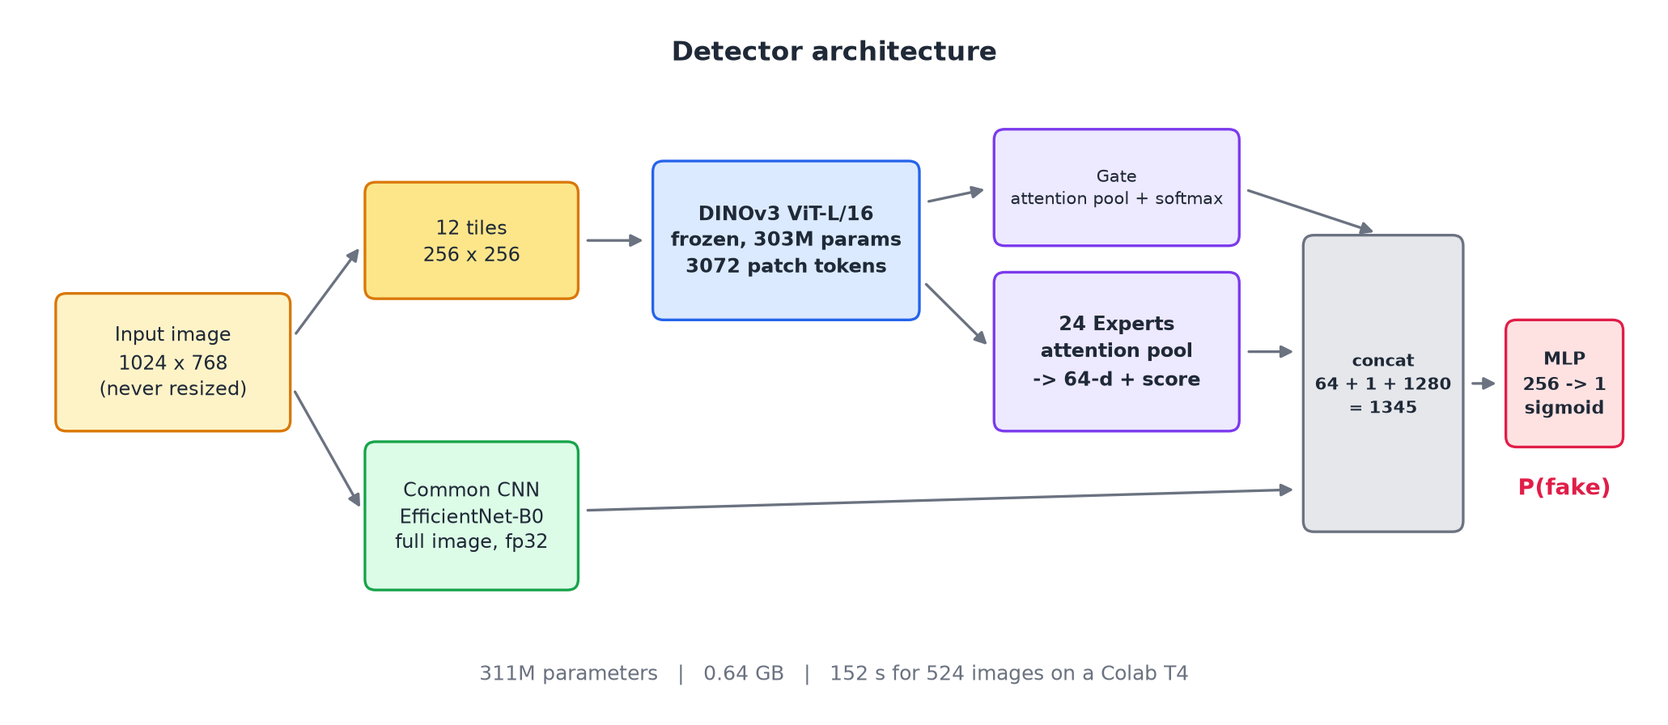
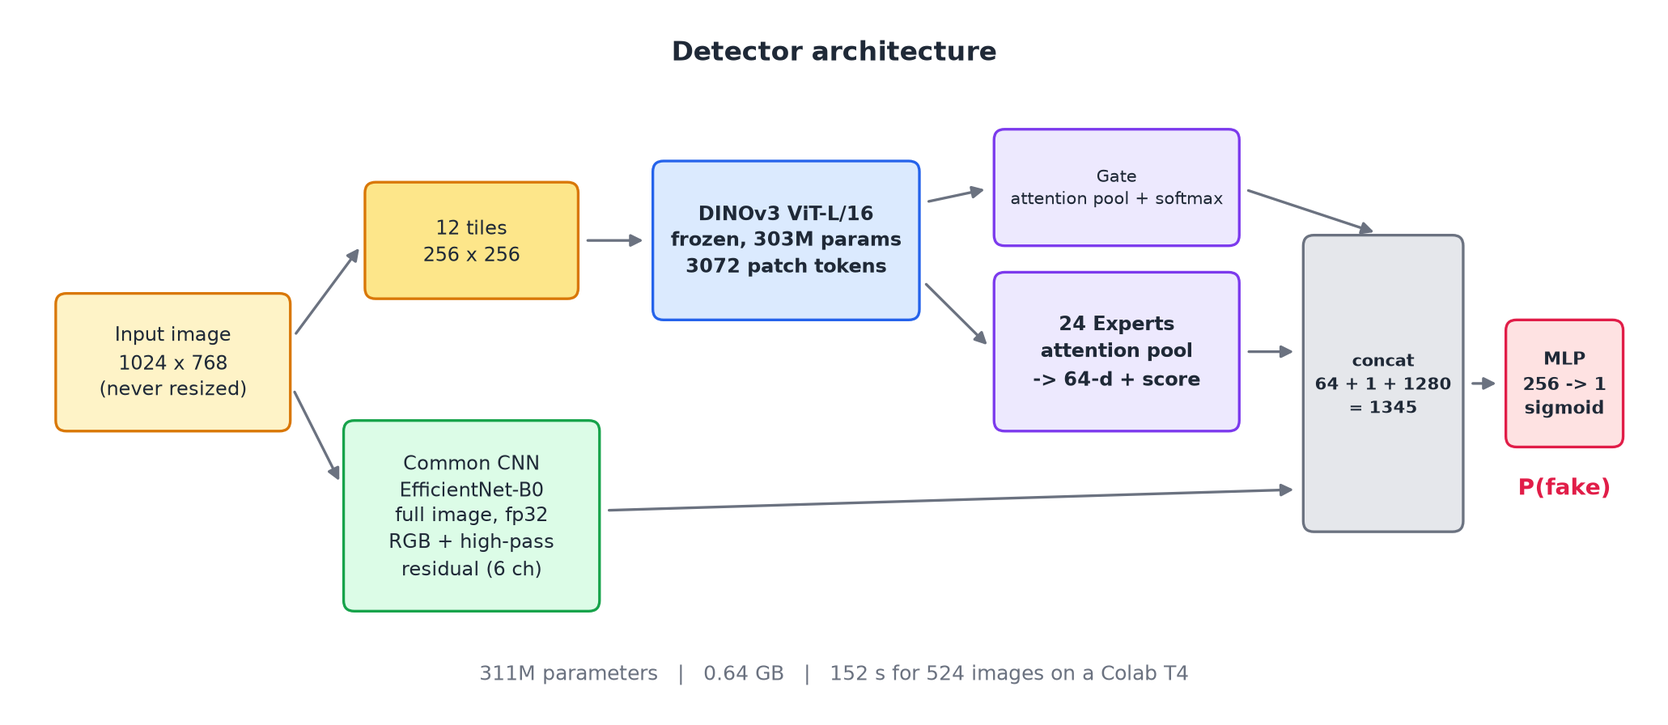
Update to final submission v7 (exp16 + threshold shift, leaderboard 0.87)

Changed region(s): [[0.1863, 0.5625, 0.3726, 0.8438]]

diff --git a/assets/make_figures.py b/assets/make_figures.py
@@ -54,15 +54,15 @@ def architecture():
     ax.text(7.5, 5.95, 'Detector architecture', ha='center', fontsize=14, fontweight='bold')
     box(fig, ax, 0.2, 2.45, 2.2, 1.3, 'Input image\n1024 x 768\n(never resized)', '#fef3c7', AMBER)
     box(fig, ax, 3.1, 3.7, 2.0, 1.1, '12 tiles\n256 x 256', '#fde68a', AMBER)
-    box(fig, ax, 3.1, 0.95, 2.0, 1.4, 'Common CNN\nEfficientNet-B0\nfull image, fp32', '#dcfce7', GREEN)
+    box(fig, ax, 2.9, 0.75, 2.4, 1.8, 'Common CNN\nEfficientNet-B0\nfull image, fp32\nRGB + high-pass\nresidual (6 ch)', '#dcfce7', GREEN)
     box(fig, ax, 5.8, 3.5, 2.5, 1.5, 'DINOv3 ViT-L/16\nfrozen, 303M params\n3072 patch tokens', '#dbeafe', BLUE, bold=True)
     box(fig, ax, 9.0, 4.2, 2.3, 1.1, 'Gate\nattention pool + softmax', '#ede9fe', PURPLE)
     box(fig, ax, 9.0, 2.45, 2.3, 1.5, '24 Experts\nattention pool\n-> 64-d + score', '#ede9fe', PURPLE, bold=True)
     box(fig, ax, 11.9, 1.5, 1.5, 2.8, 'concat\n64 + 1 + 1280\n= 1345', GRAY, MUTED, bold=True)
     box(fig, ax, 13.8, 2.3, 1.1, 1.2, 'MLP\n256 -> 1\nsigmoid', '#fee2e2', RED, bold=True)
-    for p_, q_ in [((2.4, 3.3), (3.1, 4.25)), ((2.4, 2.9), (3.1, 1.65)), ((5.1, 4.25), (5.8, 4.25)),
+    for p_, q_ in [((2.4, 3.3), (3.1, 4.25)), ((2.4, 2.9), (2.9, 1.9)), ((5.1, 4.25), (5.8, 4.25)),
                    ((8.3, 4.6), (9.0, 4.75)), ((8.3, 3.9), (9.0, 3.2)), ((11.3, 4.75), (12.65, 4.3)),
-                   ((11.3, 3.2), (11.9, 3.2)), ((5.1, 1.7), (11.9, 1.9)), ((13.4, 2.9), (13.8, 2.9))]:
+                   ((11.3, 3.2), (11.9, 3.2)), ((5.3, 1.7), (11.9, 1.9)), ((13.4, 2.9), (13.8, 2.9))]:
         arrow(ax, p_, q_)
     ax.text(14.35, 1.85, 'P(fake)', fontsize=12, ha='center', color=RED, fontweight='bold')
     ax.text(7.5, 0.1, '311M parameters   |   0.64 GB   |   152 s for 524 images on a Colab T4',
@@ -99,15 +99,15 @@ def pipeline():
 
 def results():
     fig, ax = plt.subplots(figsize=(9.5, 5.4))
-    names = ['exp02\nfirst full run', 'exp06\nlabel re-assign', 'exp11b (v3)\n24 Experts', 'v5 (final)\nthreshold 0.05']
-    val = [0.874, 0.875, 0.885, 0.901]
-    lb = [0.77, 0.75, 0.83, 0.85]
-    x = list(range(4)); w = 0.36
+    names = ['exp02\nfirst full run', 'exp06\nlabel re-assign', 'exp11b (v3)\n24 Experts', 'v5\nthreshold 0.05', 'v7 (final)\n+ high-pass input']
+    val = [0.874, 0.875, 0.885, 0.901, 0.902]
+    lb = [0.77, 0.75, 0.83, 0.85, 0.87]
+    x = list(range(5)); w = 0.36
     b1 = ax.bar([i - w / 2 for i in x], val, w, color='#93c5fd', label='own validation')
     b2 = ax.bar([i + w / 2 for i in x], lb, w, color=BLUE, label='leaderboard (hidden 524 images)')
     for b in list(b1) + list(b2):
         ax.text(b.get_x() + b.get_width() / 2, b.get_height() + 0.004, f'{b.get_height():.3f}', ha='center', fontsize=9)
-    ax.set_xticks(x); ax.set_xticklabels(names, fontsize=9.5); ax.set_ylim(0.6, 0.96)
+    ax.set_xticks(x); ax.set_xticklabels(names, fontsize=9); ax.set_ylim(0.6, 0.96)
     ax.set_ylabel('accuracy'); ax.legend(loc='upper left', frameon=False, fontsize=9.5)
     ax.spines[['top', 'right']].set_visible(False)
     ax.set_title('Own validation overestimates the hidden test', fontsize=12, fontweight='bold', pad=12)
@@ -119,20 +119,21 @@ def results():
 def experiments():
     items = [('exp08  fusion LayerNorm', 0.001), ('exp09  8 type-level Experts', -0.002),
              ('exp13  Common/Expert weighting', 0.004), ('exp15  top-k pooling', -0.010),
-             ('exp16  high-pass residual input', 0.003), ('exp17  feature dropout', -0.002),
+             ('exp16  high-pass residual input (in v7)', 0.003), ('exp17  feature dropout', -0.002),
              ('exp18  FFT spectrum features', 0.006), ('v5  decision threshold p>=0.05', 0.016)]
     fig, ax = plt.subplots(figsize=(9.5, 5.4))
     ys = list(range(len(items)))[::-1]
     ax.axvspan(-0.005, 0.005, color=GRAY, alpha=0.8, label='rough noise level (about 0.005, not a confidence interval)')
     for y, (n, d) in zip(ys, items):
-        ax.barh(y, d, color=GREEN if n.startswith('v5') else '#9ca3af', height=0.6)
+        ax.barh(y, d, color=GREEN if n.startswith('v5') else (AMBER if n.startswith('exp16') else '#9ca3af'), height=0.6)
         ax.text(0.0215, y, f'{d:+.3f}', va='center', ha='right', fontsize=9.5,
                 fontweight='bold' if n.startswith('v5') else 'normal', color=GREEN if n.startswith('v5') else INK)
     ax.set_yticks(ys); ax.set_yticklabels([n for n, _ in items], fontsize=9.5)
     ax.axvline(0, color=INK, lw=1); ax.set_xlim(-0.02, 0.0225); ax.set_ylim(-0.7, len(items) + 0.2)
     ax.set_xlabel('change in own validation metric vs. its baseline (accuracy)', fontsize=9.5)
-    ax.legend(loc='upper center', bbox_to_anchor=(0.5, -0.14), frameon=False, fontsize=9.5); ax.spines[['top', 'right']].set_visible(False)
-    ax.set_title('Seven architecture ideas stayed within noise; the decision rule gave the gain',
+    from matplotlib.patches import Patch
+    ax.legend(handles=[Patch(color=GRAY, label='rough noise level (about 0.005, not a confidence interval)'), Patch(color=AMBER, label='idea used in the final model (v7)'), Patch(color=GREEN, label='decision-threshold shift')], loc='upper center', bbox_to_anchor=(0.5, -0.14), frameon=False, fontsize=9, ncol=1); ax.spines[['top', 'right']].set_visible(False)
+    ax.set_title('On own validation, architecture ideas stayed within noise; the threshold shift gave the gain',
                  fontsize=12, fontweight='bold', pad=12)
     fig.tight_layout()
     save(fig, 'experiments.png')

diff --git a/docs/lessons-learned.md b/docs/lessons-learned.md
@@ -13,13 +13,15 @@
 - **해결**: 복제·국소 필터의 family(라벨)만 다른 Expert로 재배정 → recall 0.815 회복.
 - **배운 점**: 데이터 양보다 라벨의 일관성. 한 번에 하나만 바꾸고, 이질적인 데이터는 분리한다.
 
-## 3. 구조 실험 7개 중 6개는 효과 없음
-LayerNorm 융합, 유형별 Expert 8개, Common/Expert 가중치, top-k pooling, 고주파 잔차 입력, feature dropout, FFT 스펙트럼 — 모두 잡음 수준(±0.005). 효과가 있었던 것은 라벨 재배정, 학습 불가 샘플 제거, 판정 문턱 이동뿐 — 전부 **데이터·판정 쪽**이었다.
-- **사전 채택 기준**: 마지막 4개 실험은 결과를 보기 전에 기준(처음 본 방식 균형 +3%p 이상, 실제 정확도 ≥ 0.985 등)을 문서에 고정했고, 전부 미달이라 제출하지 않았다.
-- **배운 점**: 병목이 데이터인지 모델인지 가르는 진단(LOGO, 죽은 Expert 제거)을 구조 실험보다 먼저 해야 한다.
+## 3. 구조 실험 7개 — val에서는 전부 잡음, 그런데 하나가 최종 모델이 됐다
+LayerNorm 융합, 유형별 Expert 8개, Common/Expert 가중치, top-k pooling, 고주파 잔차 입력, feature dropout, FFT 스펙트럼 — 모두 내 val 기준으로는 잡음 수준(±0.005)이었고, 사전에 정한 채택 기준(처음 본 방식 균형 +3%p 이상, 실제 정확도 ≥ 0.985 등)도 통과한 것이 없었다.
+- **그러나 exp16(고주파 잔차 입력)은 최종 제출 v7에 쓰였다.** val에서는 v5와 사실상 같았지만(균형 0.814 vs 0.813, acc 0.902 vs 0.901, 실제 정확도 0.983 vs 0.973) 리더보드는 **0.85 → 0.87**이었다.
+- **해석 주의**: 0.02는 524장 중 약 10장이고 정확도의 표준오차가 약 1.5%p라, 이 한 번의 비교로 "고주파 입력이 효과가 있다"고 결론낼 수 없다. seed 반복이 없어서 val과 리더보드 중 어느 쪽이 잡음인지도 가릴 수 없었다. 반대로, 사전 기준만 따랐다면 이 모델은 탈락했을 것이다.
+- **배운 점**: (1) 보수적인 채택 기준은 잡음에 속지 않게 해 주지만 좋은 후보도 버릴 수 있다 — 기준의 검정력을 같이 따져야 한다. (2) 검증이 구분하지 못하는 차이가 실제 평가에서는 나타났다. 평가 설계가 결론의 한계를 정한다.
+- 효과가 분명했던 변경은 라벨 재배정, 학습 불가 샘플 제거, 판정 문턱 이동뿐이고 전부 **데이터·판정 쪽**이었다. 약한 유형의 한계는 구조보다 학습에서 본 생성·편집 방식의 다양성이라는 쪽에 더 무게가 실린다.
 
 ## 4. 판정 문턱 이동 — 가장 확실한 이득
-평가셋이 50:50이고 실제 정확도가 0.99라서 가짜 recall은 약 0.67이었다. 마지막 층 bias에 `+ln 19`를 더해 p ≥ 0.05를 가짜로 판정 → **리더보드 0.83 → 0.85**. 근거는 val 2,681장과 사전에 정한 규칙. 반면 fold 하나(+0.08)만 보고 문턱을 옮기려던 초기 시도는 fold마다 최적값이 달라 철회했고, 마감 후 더 큰 문턱(T=0.1)은 bootstrap 95% 구간이 0을 포함해 채택하지 않았다.
+평가셋이 50:50이고 실제 정확도가 0.99라서 가짜 recall은 약 0.67이었다. 마지막 층 bias에 `+ln 19`를 더해 p ≥ 0.05를 가짜로 판정 → **리더보드 0.83 → 0.85** (exp16 모델에 같은 이동을 적용한 v7은 0.87). 근거는 val 2,681장과 사전에 정한 규칙. 반면 fold 하나(+0.08)만 보고 문턱을 옮기려던 초기 시도는 fold마다 최적값이 달라 철회했고, 마감 후 더 큰 문턱(T=0.1)은 bootstrap 95% 구간이 0을 포함해 채택하지 않았다.
 
 ## 5. fp16 NaN — 안 보이는 버그
 DINOv3를 `.half()`로 T4에서 돌리면 첫 block부터 overflow해 모든 출력이 NaN이 된다. 무작위 가중치 smoke test로는 재현되지 않았고, 실제 가중치로 첫 학습을 돌릴 때 loss가 nan이 되어서야 발견했다. 그대로 제출했다면 모든 출력이 0.5로 처리되어 약 50%였을 것으로 추정한다. → 가중치는 fp32, 연산만 `autocast`. 같은 날 SupCon의 `-1e9` fill이 fp16에서 넘치는 문제도 발견(SupCon은 fp32). **실제 가중치 + 실제 채점 환경으로 확인해야 한다.**
@@ -34,13 +36,13 @@ DINOv3를 `.half()`로 T4에서 돌리면 첫 block부터 overflow해 모든 출
 - **부분 생성**: recall 0.756 = 본 적 있는 방식 0.925 / 처음 본 방식 0.323. 주범은 AI 편집 모델(klein-edit)이고 편집 면적 중앙값이 6.4%라 신호 자체가 희박하다.
 - **`flux_vae` 재구성**: 육안으로도 구분 불가(recall ≈ 0), val 오답의 약 31%.
 - **강한 노이즈 사진의 Common CNN 특징 이상치**: fp32로 바꿔도 풀리지 않았고 원인은 규명하지 못했다(범위는 노이즈 사진의 약 1%).
-- **val vs 리더보드 격차**: 최종 모델도 val 0.901 vs 리더보드 0.85.
+- **val vs 리더보드 격차**: 최종 모델(v7)도 val 0.902 vs 리더보드 0.87.
 
 ## 9. 다음에 한다면
 1. val 설계를 먼저 — 처음부터 LOGO를 기본 지표로.
 2. 다양한 종류의 실제 사진 + 같은 장면에서 만든 가짜를 **짝으로** 구축.
 3. 생성 방식 다양성을 일찍 — AI 편집 모델을 학습에서 빼지 않기. 21장짜리 예시 이미지로 학습 데이터를 거르지 않기(순환 논리).
-4. seed 반복으로 잡음 폭을 먼저 재고 실험하기 (개선폭이 ±0.005 안이라 결론이 약했다).
+4. seed 반복으로 잡음 폭을 먼저 재고 실험하기 (개선폭이 ±0.005 안이라 결론이 약했고, exp16처럼 val과 리더보드가 다른 말을 할 때 어느 쪽이 맞는지 가릴 수 없었다).
 5. 마감 3일 전부터는 새 기법 금지, 안정화·제출 검증만.
 
-> **한 줄 회고** — 모델을 더 복잡하게 만드는 것보다, "내 평가가 진짜 평가와 같은가"를 먼저 의심하고 데이터 다양성에 시간을 쓰는 편이 점수가 올랐다.
+> **한 줄 회고** — "내 평가가 진짜 평가와 같은가"를 먼저 의심하고 데이터 다양성에 시간을 쓰는 편이 점수가 올랐다. 그리고 내 검증이 구분하지 못하는 0.02의 차이가 실제 평가에서는 나타났다는 점이, 검증을 더 정교하게 설계해야 한다는 가장 큰 숙제로 남았다.

diff --git a/README.md b/README.md
@@ -6,7 +6,7 @@
 
 [Results](#results) · [Architecture](#architecture) · [Data pipeline](#data-pipeline) · [What went wrong](docs/lessons-learned.md) · [한국어](README.ko.md)
 
-![Python](https://img.shields.io/badge/Python-3.10+-blue) ![PyTorch](https://img.shields.io/badge/PyTorch-2.x-ee4c2c) ![Backbone](https://img.shields.io/badge/backbone-DINOv3%20ViT--L%2F16-green) ![Accuracy](https://img.shields.io/badge/leaderboard%20accuracy-0.85-brightgreen) ![License](https://img.shields.io/badge/code-MIT-lightgrey)
+![Python](https://img.shields.io/badge/Python-3.10+-blue) ![PyTorch](https://img.shields.io/badge/PyTorch-2.x-ee4c2c) ![Backbone](https://img.shields.io/badge/backbone-DINOv3%20ViT--L%2F16-green) ![Accuracy](https://img.shields.io/badge/leaderboard%20accuracy-0.87-brightgreen) ![License](https://img.shields.io/badge/code-MIT-lightgrey)
 
 <img src="assets/architecture.png" width="92%" alt="Detector architecture">
 
@@ -18,9 +18,9 @@ Built for the 1st National Agricultural AI Competition (Korea, image mission): c
 
 | | |
 |---|---|
-| **Final score** | **0.85 accuracy** on the hidden 524-image test (262 real / 262 fake) |
+| **Final score** | **0.87 accuracy** on the hidden 524-image test (262 real / 262 fake) |
 | **Model** | 311M parameters, 0.64 GB, **152 s** for 524 images on a Colab T4 (limit: 5 min, offline, ≤ 1 GB) |
-| **Key idea** | Tiles at native resolution → frozen DINOv3 → attention-pooled **Experts per generator** + full-image CNN |
+| **Key idea** | Tiles at native resolution → frozen DINOv3 → attention-pooled **Experts per generator** + a full-image CNN that also sees a high-pass residual |
 | **Most useful finding** | Own validation said 0.874, the hidden test said 0.77. Leave-one-generator-out evaluation explained why. |
 
 ## Results
@@ -32,13 +32,14 @@ Built for the 1st National Agricultural AI Competition (Korea, image mission): c
 | exp02 | first full training | acc 0.874 / AUROC 0.958 | 0.77 |
 | exp06 | re-assign "clone / local filter" labels | acc 0.875 | ≈ 0.75 |
 | exp11b (v3) | one Expert per generation method (24), drop 11 inert methods | acc 0.885 / AUROC 0.964 | 0.83 |
-| **v5 (final)** | same weights, decision threshold p ≥ 0.05 (`+ln 19` on the last bias) | acc 0.901 | **0.85** |
+| v5 | exp11b weights, decision threshold p ≥ 0.05 (`+ln 19` on the last bias) | acc 0.901 | 0.85 |
+| **v7 (final)** | exp11b setup + **high-pass residual input** to the Common CNN (exp16), same threshold shift | acc 0.902 | **0.87** |
 
-Seven architecture ideas (LayerNorm fusion, top-k pooling, high-pass input, dropout, FFT features, …) all stayed within noise. The bottleneck was **how many generators the model had seen**, not model capacity.
+On my own validation, none of seven architecture ideas (LayerNorm fusion, top-k pooling, high-pass input, dropout, FFT features, …) moved the metric beyond noise. One of them, the **high-pass residual input** (exp16), ended up in the best leaderboard model: v7 scored 0.87 vs. 0.85 for v5, although validation rated the two the same (balanced accuracy 0.814 vs. 0.813). That gap is about 10 of 524 images (standard error ≈ 1.5 pp), so one comparison neither proves nor refutes the idea. What stayed consistent was the bottleneck: **how many generators the model had seen**, not model capacity.
 
 <img src="assets/experiments.png" width="62%" alt="Experiment deltas">
 
-> One run per experiment (no seed repeats). The shaded band is a rough noise level of ±0.005 seen between comparable runs, not a measured confidence interval. Full table: [docs/experiments.md](docs/experiments.md).
+> One run per experiment (no seed repeats). The shaded band is a rough noise level of ±0.005 seen between comparable runs, not a measured confidence interval. Amber = the idea that ended up in the final model. Full table: [docs/experiments.md](docs/experiments.md).
 
 ## Architecture
 
@@ -47,7 +48,7 @@ Seven architecture ideas (LayerNorm fusion, top-k pooling, high-pass input, drop
 | **12 native-resolution tiles, no resizing** | Blur, VAE 8-px grids and edit boundaries are pixel-level traces that downscaling destroys. |
 | **Frozen DINOv3** | A few thousand images per generator: fine-tuning would memorize *my* generators' fingerprints. |
 | **Attention pooling** | A local edit lives in a few tiles; mean pooling washes it out. |
-| **Common CNN on the full image** | Covers high-frequency traces (noise, JPEG) and has no input-size limit. |
+| **Common CNN on the full image** | Covers high-frequency traces (noise, JPEG) and has no input-size limit. The final model feeds it RGB plus a high-pass residual (6 channels). |
 | **One Expert per generation method + Gate** | Different generators leave different fingerprints. |
 
 Training: (1) Experts + Common CNN → (2) Gate → (3) everything, with `BCE + 0.2·GateCE + 0.1·SupCon` (SupCon pairs a real photo with fakes made from it). Details: [docs/architecture.md](docs/architecture.md).

diff --git a/README.ko.md b/README.ko.md
@@ -6,7 +6,7 @@
 
 [결과](#결과) · [모델 구조](#모델-구조) · [데이터 파이프라인](#데이터-파이프라인) · [시행착오](docs/lessons-learned.md) · [English](README.md)
 
-![Python](https://img.shields.io/badge/Python-3.10+-blue) ![PyTorch](https://img.shields.io/badge/PyTorch-2.x-ee4c2c) ![Backbone](https://img.shields.io/badge/backbone-DINOv3%20ViT--L%2F16-green) ![Accuracy](https://img.shields.io/badge/leaderboard%20accuracy-0.85-brightgreen) ![License](https://img.shields.io/badge/code-MIT-lightgrey)
+![Python](https://img.shields.io/badge/Python-3.10+-blue) ![PyTorch](https://img.shields.io/badge/PyTorch-2.x-ee4c2c) ![Backbone](https://img.shields.io/badge/backbone-DINOv3%20ViT--L%2F16-green) ![Accuracy](https://img.shields.io/badge/leaderboard%20accuracy-0.87-brightgreen) ![License](https://img.shields.io/badge/code-MIT-lightgrey)
 
 <img src="assets/architecture.png" width="92%" alt="모델 구조">
 
@@ -18,9 +18,9 @@
 
 | | |
 |---|---|
-| **최종 점수** | 비공개 평가 524장(실제 262 / 가짜 262) **accuracy 0.85** |
+| **최종 점수** | 비공개 평가 524장(실제 262 / 가짜 262) **accuracy 0.87** |
 | **모델** | 311M 파라미터, 0.64 GB, Colab T4에서 524장 **152초** (제한: 5분 · 오프라인 · 1GB 이하) |
-| **핵심 아이디어** | 원본 해상도 조각 → 고정 DINOv3 → **생성 방식별 Expert**(attention pooling) + 전체 이미지 CNN |
+| **핵심 아이디어** | 원본 해상도 조각 → 고정 DINOv3 → **생성 방식별 Expert**(attention pooling) + 고주파 잔차까지 보는 전체 이미지 CNN |
 | **가장 쓸모 있던 발견** | 내부 validation 0.874, 비공개 평가 0.77. leave-one-generator-out 평가로 원인을 규명 |
 
 ## 결과
@@ -32,13 +32,14 @@
 | exp02 | 첫 본 학습 | acc 0.874 / AUROC 0.958 | 0.77 |
 | exp06 | 복제·국소 필터 라벨 재배정 | acc 0.875 | ≈ 0.75 |
 | exp11b (v3) | 생성 방식별 Expert 24개, 반응 없던 11방식 제외 | acc 0.885 / AUROC 0.964 | 0.83 |
-| **v5 (최종)** | 가중치 동일, 판정 문턱 p ≥ 0.05 (마지막 bias에 `+ln 19`) | acc 0.901 | **0.85** |
+| v5 | exp11b 가중치, 판정 문턱 p ≥ 0.05 (마지막 bias에 `+ln 19`) | acc 0.901 | 0.85 |
+| **v7 (최종)** | exp11b 설정 + Common CNN에 **고주파 잔차 입력**(exp16), 같은 문턱 이동 | acc 0.902 | **0.87** |
 
-구조 아이디어 7개(LayerNorm, top-k pooling, 고주파 입력, dropout, FFT 등)는 전부 잡음 수준이었습니다. 병목은 모델 용량이 아니라 **모델이 본 생성기의 종류**였습니다.
+내 검증 기준으로는 구조 아이디어 7개(LayerNorm, top-k pooling, 고주파 입력, dropout, FFT 등) 모두 잡음 수준을 넘지 못했습니다. 그중 하나인 **고주파 잔차 입력**(exp16)이 리더보드 최고 모델에 들어갔습니다. v7은 0.87, v5는 0.85였는데 검증은 둘을 같게 봤습니다(균형 정확도 0.814 vs 0.813). 이 차이는 524장 중 약 10장(표준오차 ≈ 1.5%p)이라 한 번의 비교로 효과를 입증하거나 부정할 수는 없습니다. 일관되게 남은 병목은 모델 용량이 아니라 **모델이 본 생성기의 종류**였습니다.
 
 <img src="assets/experiments.png" width="62%" alt="실험별 변화량">
 
-> 실험당 1회 실행(seed 반복 없음). 음영은 비슷한 실행 사이에서 보인 대략적인 잡음 수준(±0.005)이며 측정된 신뢰구간이 아닙니다. 전체 표: [docs/experiments.md](docs/experiments.md)
+> 실험당 1회 실행(seed 반복 없음). 음영은 비슷한 실행 사이에서 보인 대략적인 잡음 수준(±0.005)이며 측정된 신뢰구간이 아닙니다. 주황색은 최종 모델에 들어간 아이디어입니다. 전체 표: [docs/experiments.md](docs/experiments.md)
 
 ## 모델 구조
 
@@ -47,7 +48,7 @@
 | **원본 해상도 조각 12장, 축소 없음** | 블러·VAE 8픽셀 격자·편집 경계 같은 픽셀 단위 흔적은 축소하면 사라진다. |
 | **DINOv3 고정** | 생성기당 수백~천 장뿐이라 fine-tuning하면 *내가 만든* 생성기 지문을 외운다. |
 | **attention pooling** | 부분 편집은 일부 조각에만 흔적이 있어 평균하면 묻힌다. |
-| **전체 이미지 Common CNN** | 고주파 흔적(노이즈·JPEG)을 보완하고 입력 크기 제한이 없다. |
+| **전체 이미지 Common CNN** | 고주파 흔적(노이즈·JPEG)을 보완하고 입력 크기 제한이 없다. 최종 모델은 RGB에 고주파 잔차를 붙인 6채널을 입력한다. |
 | **생성 방식별 Expert + Gate** | 생성기마다 지문이 다르다. |
 
 학습: (1) Expert + Common CNN → (2) Gate → (3) 전체를 `BCE + 0.2·GateCE + 0.1·SupCon`으로 (SupCon은 같은 원본의 실제·가짜 쌍). 자세히: [docs/architecture.md](docs/architecture.md)

diff --git a/docs/experiments.md b/docs/experiments.md
@@ -21,12 +21,13 @@
 | **exp11b** | 10/15 | 반응 없던 11방식 제외 | val 0.885, **리더보드 0.83 (v3)** | ✓ |
 | exp12r | 10/16 | 다른 종류 실제만 4배 비중 추가 | 오탐 100%→0~7%, 가짜 recall 0.866→0.814 | ✗ |
 | exp13 | 10/16 | Common↔Expert 비중 격자 (학습 없음) | 최고 +0.4%p | ✗ |
-| **v5** | 10/16 | v3 + 문턱 p≥0.05 (bias +ln19) | **리더보드 0.85** | ✓ **최종** |
+| v5 | 10/16 | v3 + 문턱 p≥0.05 (bias +ln19) | val acc 0.901 / 균형 0.813 / 실제 0.973, 리더보드 0.85 | ✓ 제출 (이후 v7로 대체) |
 | exp14 | 10/16 | (= 문턱 이동 시험) 처음 본 방식 균형 +1.6%p | 리더보드로 확인 | ✓ |
 | exp15 | 10/16 | Common top-k pooling | 균형 0.797→0.787 | ✗ |
-| exp16 | 10/16 | RGB+고주파 잔차 6채널 | 0.797→0.800 | ✗ (v6 ZIP 만들었으나 업로드 안 함) |
-| exp17 | 10/16 | feature dropout 0.15 | 0.800→0.798 | ✗ |
-| exp18 | 10/17 | FFT 스펙트럼 요약 | 0.803 | ✗ |
+| **exp16** | 10/16 | Common CNN 입력 = RGB + 고주파 잔차(RGB − 3×3 평균)×6, 6채널 | 처음 본 방식 균형 0.797→0.800, acc 0.885→0.888 (기준 +3%p 미달) | △ val 기준은 미달, **최종 제출 v7에 사용** |
+| **v7** | 10/16 | exp16 + 문턱 p≥0.05 (bias +ln19) | val acc 0.902 / 균형 0.814 / 실제 0.983 (v5: 0.901 / 0.813 / 0.973), **리더보드 0.87** | ✓ **최종** |
+| exp17 | 10/16 | exp16 + feature dropout 0.15 | 0.800→0.798 (exp16 대비) | ✗ |
+| exp18 | 10/17 | exp16 + FFT 스펙트럼 요약 | 0.800→0.803 (exp16 대비) | ✗ |
 | v11 | 10/17 | 문턱 T=0.1 | bootstrap 95% 구간이 0 포함 | ✗ (만들지 않음) |
 
 ## 사전에 정한 채택 기준 (exp15~18)
@@ -36,10 +37,12 @@
 - AUROC 하락 ≤ 0.003
 - 유형별 recall 하락 ≤ 5%p, 전체 균형 하락 ≤ 0.5%p
 - 이유: val과 리더보드 격차가 크고, 마감 뒤에야 점수가 나와 모델을 리더보드로 검증할 수 없어서.
+- **결과적으로**: exp16은 이 기준(+3%p)을 넘지 못했지만 최종으로 제출되어 리더보드 0.87을 얻었다(v5 0.85). 기준이 val 잡음(±0.005)에 맞춰 보수적이었다는 뜻이다. 다만 0.02는 524장 중 약 10장이라(표준오차 ≈ 1.5%p) 이 한 번의 비교로 고주파 입력의 효과를 단정할 수는 없다.
 
 ## 패턴 정리
 - **효과 있었던 것**: 라벨(family) 재배정, 학습 방식 선택(학습 불가능한 양성 제거), 판정 문턱 이동
-- **효과 없었던 것**: LayerNorm, 풀링 방식, 입력 채널, dropout, 스펙트럼 특징, 가중치 비중, 학습량 2배, Expert 개수 조정(죽은 Expert 11개를 빼도 점수 동일)
+- **val에서 효과가 확인되지 않은 것**: LayerNorm, 풀링 방식, dropout, 스펙트럼 특징, 가중치 비중, 학습량 2배, Expert 개수 조정(죽은 Expert 11개를 빼도 점수 동일)
+- **val은 같다고 했지만 리더보드에서만 +0.02**: 고주파 잔차 입력(exp16 → v7). 원인은 확인하지 못했다.
 
 ## 제출 이력
 | 날짜 | 모델 | 리더보드 |
@@ -48,6 +51,7 @@
 | 10/2 | exp02 | 0.77 |
 | 10/6 | exp06 | 0.75 (추정) |
 | 10/16 오전 | v3 (exp11b) | 0.83 |
-| 10/16 | v5 | **0.85 (최종)** |
+| 10/16 | v5 | 0.85 |
+| 10/16 (마감 전) | v7 (exp16 + 문턱) | **0.87 (최종)** |
 
 > **한계:** 실험당 1회 실행. 비슷한 실행 사이의 편차(±0.002~0.005)가 대부분의 개선폭과 비슷했고, seed 반복은 계획만 하고 하지 못했다.

diff --git a/docs/architecture.md b/docs/architecture.md
@@ -15,13 +15,14 @@
  │      └ 패치 토큰 3072개 × 1024차원
  │            ├ Gate (attention pooling → softmax)   : Expert 비중
  │            └ Expert × N (attention pooling)        : 각자 64차원 특징 + 점수 1개
- └─ 원본 통째 ─ EfficientNet-B0 "Common CNN" (1280차원)
+ └─ 원본 통째 ─ EfficientNet-B0 "Common CNN" (입력: RGB + 고주파 잔차 = 6채널, 1280차원)
          ↓ concat (64 + 1 + 1280 = 1345)
        MLP (→256→1) → sigmoid → 확률
 ```
-- 총 311M 파라미터, 가중치 0.64GB. T4에서 524장 약 152초(한도 5분).
-- 최종 변형(exp11b): Expert를 계열 5개가 아니라 **생성 방식별 24개(gen24)** 로, 예시 이미지에서 반응이 없던 11방식은 학습 가짜에서 제외.
-- v5: 마지막 층 bias에 +2.9444(= ln 19)를 더해 판정 문턱을 p ≥ 0.05로 이동(모델·AUROC는 그대로).
+- 총 311M 파라미터, 가중치 0.64GB. T4에서 524장 약 152초(한도 5분, v3 패키지 실측 — v7은 Common CNN 첫 합성곱 입력 채널만 3개 늘어남).
+- 기반 모델(exp11b): Expert를 계열 5개가 아니라 **생성 방식별 24개(gen24)** 로, 예시 이미지에서 반응이 없던 11방식은 학습 가짜에서 제외.
+- 문턱 이동: 마지막 층 bias에 +2.9444(= ln 19)를 더해 판정 문턱을 p ≥ 0.05로 이동(모델·AUROC는 그대로). exp11b에 적용한 것이 v5(리더보드 0.85).
+- **최종 v7 = exp16 + 문턱 이동 (리더보드 0.87)**: Common CNN 입력을 정규화된 RGB 3채널 + 고주파 잔차 3채널로 바꿨다. 잔차 = RGB − 3×3 평균(reflect padding), 잔차 표준편차가 약 1이 되도록 gain 6. 새 채널 가중치는 0으로 시작해서 학습 시작 시점에는 사전학습 RGB 모델과 출력이 같다. 파라미터가 없는 전처리이고 `config.json`의 `common.highpass.gain`으로 켠다(`submission/detector.py`의 `with_highpass`). 다른 설정(데이터·hold-out 11방식·gen24·4000/400/1500 step·batch 8·seed 0)은 exp11b와 같다.
 
 ### 학습 3 stage
 1. Expert와 Common 학습 (백본은 사진당 1회만 계산, 각 Expert는 "실제 + 자기 계열 가짜"만 봄)
@@ -39,7 +40,7 @@
 | **MoE (Expert 여러 개)** | 생성기마다 지문이 다름 |
 
 > **Honest note**
-> "MoE가 단순 평균보다 낫다"는 비교 실험은 계획만 하고 **하지 않았다**. 구조 선택은 실험이 아니라 설계상의 논리에 근거했다. 그리고 이후 구조 실험들은 대부분 효과가 없었다. → 모음
+> "MoE가 단순 평균보다 낫다"는 비교 실험은 계획만 하고 **하지 않았다**. 구조 선택은 실험이 아니라 설계상의 논리에 근거했다. 그리고 이후 구조 실험들은 내 검증 기준으로는 대부분 효과가 없었다. → [lessons-learned.md](lessons-learned.md)
 
 ## 대회 제약과의 관계
 - 추론 중 네트워크·다운로드 금지 → 가중치는 `model/`에 safetensors로, config로 구조를 만든 뒤 로드.
